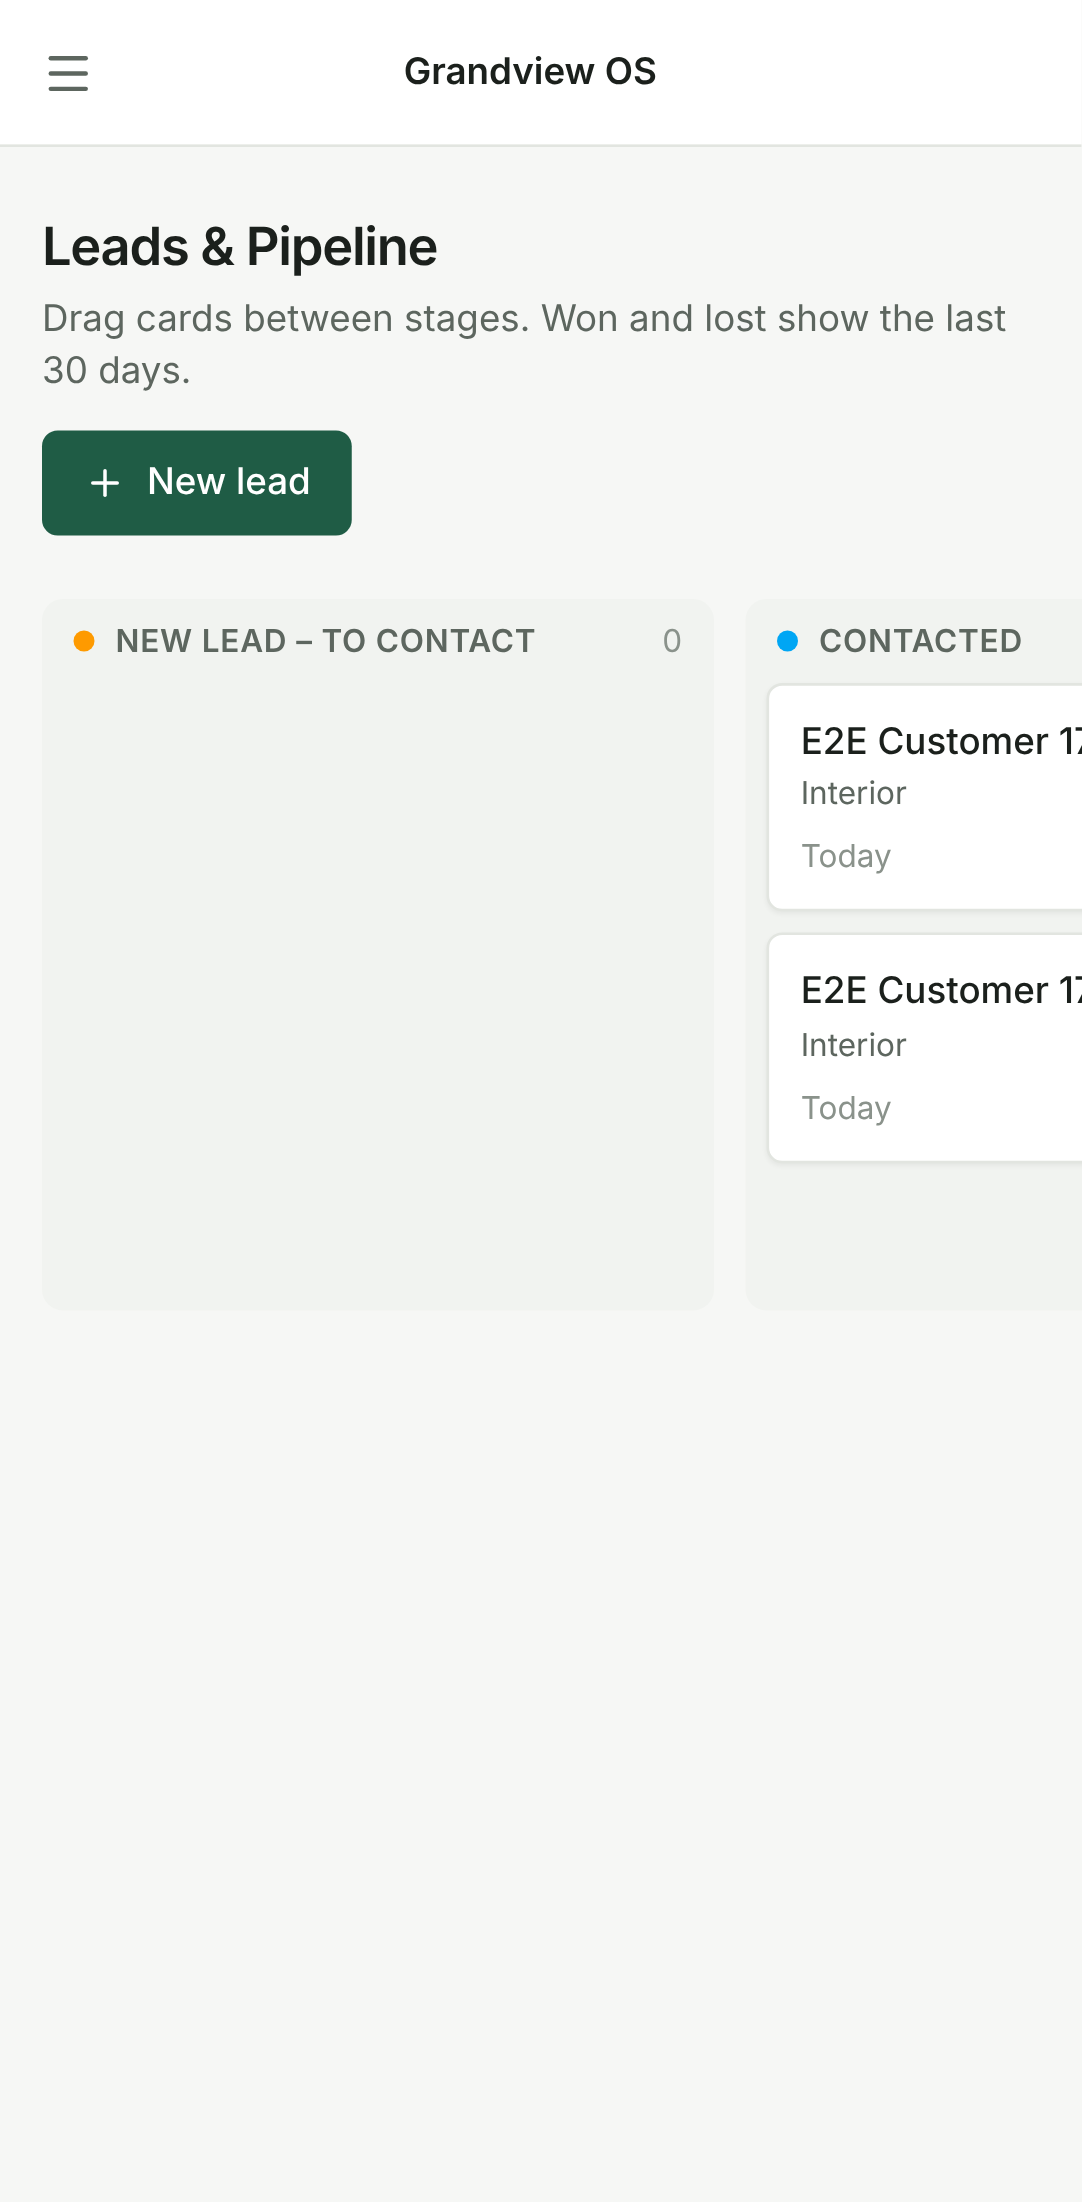
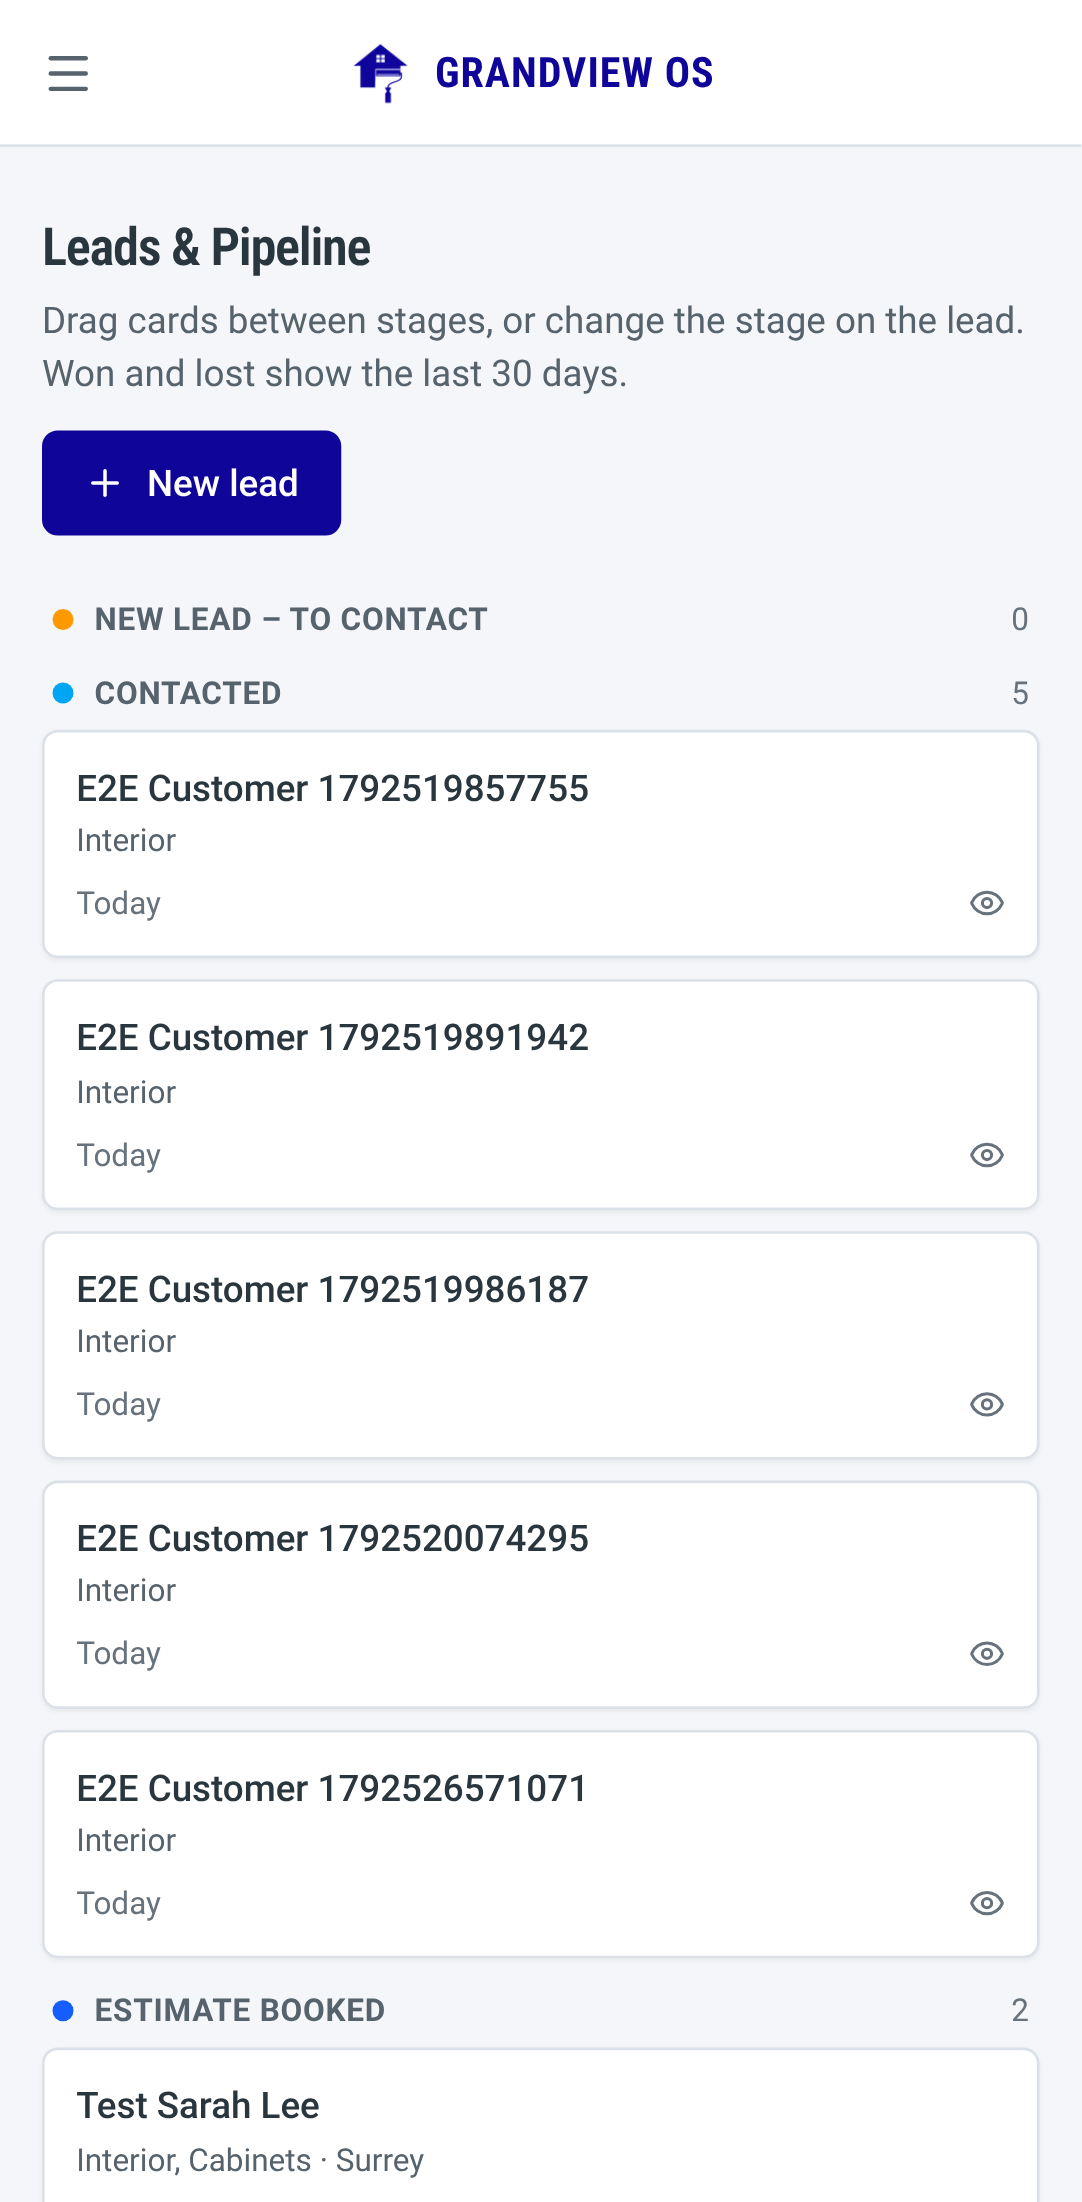
Retheme to Grandview Painting website branding
Replace the placeholder green with the website's Elementor global colours
(logo blue #100599, navy #103362, teal #009ABB, slate text #2A363E), use the
official logo and house/roller symbol, website fonts (Roboto, Roboto
Condensed via next/font), favicon and app icons. Derived tints checked for
WCAG AA contrast.

Claude-Session: https://claude.ai/code/session_01PRCtuHkzCiq5yPCEWquvEd

diff --git a/src/app/globals.css b/src/app/globals.css
@@ -1,34 +1,37 @@
 @import "tailwindcss";
 
 /*
- * Grandview OS design tokens. Restrained neutrals with a single deep-green
- * brand accent. Colours are referenced through these tokens only.
+ * Grandview OS design tokens, taken from grandviewpainting.ca (Elementor global
+ * colours and the logo): logo blue #100599, navy #103362, teal #009ABB, slate
+ * text #2A363E. Tints marked "derived" exist only where the site has no
+ * equivalent. Colours are referenced through these tokens only.
  */
 :root {
-  --bg: #f6f7f5;
+  --bg: #f4f6f9; /* derived */
   --surface: #ffffff;
-  --surface-2: #f1f3f0;
-  --border: #e2e5e0;
-  --border-strong: #cdd2ca;
-  --text: #1b201c;
-  --text-muted: #5d665f;
-  --text-subtle: #8a928b;
-  --brand: #1f5c45;
-  --brand-hover: #184a37;
-  --brand-soft: #e5f0ea;
+  --surface-2: #edf0f5; /* derived */
+  --border: #dce1e9; /* derived */
+  --border-strong: #c3cad6; /* derived */
+  --text: #2a363e;
+  --text-muted: #56626c; /* derived */
+  --text-subtle: #67727c; /* derived; use text-muted for small text on surface-2 */
+  --brand: #100599;
+  --brand-hover: #103362;
+  --brand-soft: #e9e8f8; /* derived */
   --brand-contrast: #ffffff;
   --danger: #b4232c;
-  --danger-soft: #fbe9ea;
-  --warning: #9a5b00;
-  --warning-soft: #fdf1dc;
-  --success: #1e7a46;
-  --success-soft: #e3f4ea;
-  --info: #1f5f9e;
-  --info-soft: #e5eef8;
-  --sidebar: #142019;
-  --sidebar-text: #c9d3cc;
-  --sidebar-active: #22372b;
-  --ring: #2f7d5f;
+  --danger-soft: #fbeaeb;
+  --warning: #8a5100;
+  --warning-soft: #fff4d6;
+  --success: #1b7340;
+  --success-soft: #e4f3e9;
+  --info: #00728c; /* darker teal so small text passes AA */
+  --info-soft: #e0f3f7;
+  --sidebar: #103362;
+  --sidebar-text: #c3cede; /* derived */
+  --sidebar-active: #2a5490; /* derived; #100599 would be invisible on navy */
+  --accent: #009abb;
+  --ring: #009abb;
 }
 
 @theme inline {
@@ -56,7 +59,9 @@
   --color-sidebar-text: var(--sidebar-text);
   --color-sidebar-active: var(--sidebar-active);
   --color-ring: var(--ring);
-  --font-sans: ui-sans-serif, system-ui, -apple-system, "Segoe UI", Roboto, "Helvetica Neue", Arial, sans-serif;
+  --color-accent: var(--accent);
+  --font-sans: var(--font-roboto), "Helvetica Neue", Helvetica, Arial, sans-serif;
+  --font-display: var(--font-roboto-condensed), "Arial Narrow", "Helvetica Neue", Arial, sans-serif;
   --font-mono: ui-monospace, SFMono-Regular, Menlo, Consolas, monospace;
 }
 
@@ -86,4 +91,10 @@ input[type="number"]::-webkit-outer-spin-button {
 }
 input[type="number"] {
   -moz-appearance: textfield;
+}
+
+@layer base {
+  h1 {
+    font-family: var(--font-display);
+  }
 }

diff --git a/src/components/sidebar.tsx b/src/components/sidebar.tsx
@@ -1,4 +1,5 @@
 "use client";
+import Image from "next/image";
 import Link from "next/link";
 import { usePathname } from "next/navigation";
 import { useState } from "react";
@@ -38,7 +39,7 @@ export function Sidebar({ items, userName, roleLabel }: { items: NavItem[]; user
             aria-current={active ? "page" : undefined}
             className={cn(
               "flex items-center gap-3 rounded-md px-3 py-2 text-sm font-medium transition-colors",
-              active ? "bg-sidebar-active text-white" : "text-sidebar-text hover:bg-sidebar-active/60 hover:text-white",
+              active ? "bg-sidebar-active text-white shadow-[inset_3px_0_0_var(--accent)]" : "text-sidebar-text hover:bg-sidebar-active/60 hover:text-white",
             )}
           >
             <Icon className="size-4 shrink-0" aria-hidden />
@@ -69,9 +70,9 @@ export function Sidebar({ items, userName, roleLabel }: { items: NavItem[]; user
   );
 
   const brand = (
-    <div className="flex h-14 items-center gap-2 px-5">
-      <span className="grid size-7 place-items-center rounded-md bg-brand text-xs font-bold text-white">G</span>
-      <span className="text-sm font-semibold tracking-tight text-white">Grandview OS</span>
+    <div className="flex h-14 items-center gap-2.5 px-4">
+      <Image src="/brand/symbol-white.png" alt="Grandview Painting" width={32} height={32} priority />
+      <span className="font-[family-name:var(--font-display)] text-base font-bold uppercase tracking-wide text-white">Grandview <span className="text-accent">OS</span></span>
     </div>
   );
 
@@ -87,7 +88,10 @@ export function Sidebar({ items, userName, roleLabel }: { items: NavItem[]; user
         <button type="button" onClick={() => setOpen(true)} className="-ml-2 rounded-md p-2 text-muted" aria-label="Open menu">
           <Menu className="size-5" />
         </button>
-        <span className="text-sm font-semibold">Grandview OS</span>
+        <span className="flex items-center gap-2">
+          <Image src="/brand/symbol-blue.png" alt="Grandview Painting" width={26} height={26} priority />
+          <span className="font-[family-name:var(--font-display)] text-base font-bold uppercase tracking-wide text-brand">Grandview OS</span>
+        </span>
         <span className="w-9" />
       </header>
 

diff --git a/src/app/layout.tsx b/src/app/layout.tsx
@@ -1,5 +1,10 @@
 import type { Metadata, Viewport } from "next";
+import { Roboto, Roboto_Condensed } from "next/font/google";
 import "./globals.css";
+
+// Same families as grandviewpainting.ca, self-hosted at build time.
+const roboto = Roboto({ subsets: ["latin"], weight: ["400", "500", "700"], variable: "--font-roboto", display: "swap" });
+const robotoCondensed = Roboto_Condensed({ subsets: ["latin"], weight: ["600", "700"], variable: "--font-roboto-condensed", display: "swap" });
 
 export const metadata: Metadata = {
   title: { default: "Grandview OS", template: "%s · Grandview OS" },
@@ -8,14 +13,14 @@ export const metadata: Metadata = {
 };
 
 export const viewport: Viewport = {
-  themeColor: "#1f5c45",
+  themeColor: "#100599",
   width: "device-width",
   initialScale: 1,
 };
 
 export default function RootLayout({ children }: { children: React.ReactNode }) {
   return (
-    <html lang="en-CA" className="h-full antialiased">
+    <html lang="en-CA" className={`${roboto.variable} ${robotoCondensed.variable} h-full antialiased`}>
       <body className="min-h-full">{children}</body>
     </html>
   );

diff --git a/src/app/login/auth-shell.tsx b/src/app/login/auth-shell.tsx
@@ -1,10 +1,12 @@
+import Image from "next/image";
+
 export function AuthShell({ title, subtitle, children }: { title: string; subtitle?: string; children: React.ReactNode }) {
   return (
     <div className="flex min-h-screen items-center justify-center bg-bg px-4 py-12">
       <div className="w-full max-w-sm">
-        <div className="mb-8 flex items-center justify-center gap-2">
-          <span className="grid size-9 place-items-center rounded-lg bg-brand text-sm font-bold text-white">G</span>
-          <span className="text-lg font-semibold tracking-tight">Grandview OS</span>
+        <div className="mb-8 flex flex-col items-center gap-2">
+          <Image src="/brand/logo-blue-tagline.png" alt="Grandview Painting – Quality focused. Integrity driven." width={260} height={130} priority />
+          <span className="font-[family-name:var(--font-display)] text-sm font-semibold uppercase tracking-[0.2em] text-muted">Grandview OS</span>
         </div>
         <div className="rounded-xl border border-border bg-surface p-6 shadow-sm">
           <h1 className="text-lg font-semibold">{title}</h1>

diff --git a/src/app/(app)/estimates/[id]/editor.tsx b/src/app/(app)/estimates/[id]/editor.tsx
@@ -644,7 +644,7 @@ export function EstimateEditor({
       {toast && (
         <div className="fixed bottom-4 left-1/2 z-50 flex -translate-x-1/2 items-center gap-3 rounded-lg bg-sidebar px-4 py-2.5 text-sm text-white shadow-lg" role="status">
           {toast}
-          {undoStack.length > 0 && <button type="button" className="font-semibold text-emerald-300 hover:underline" onClick={undo}>Undo</button>}
+          {undoStack.length > 0 && <button type="button" className="font-semibold text-accent hover:underline" onClick={undo}>Undo</button>}
         </div>
       )}
     </div>

diff --git a/src/proxy.ts b/src/proxy.ts
@@ -12,5 +12,5 @@ export function proxy(request: NextRequest) {
 }
 
 export const config = {
-  matcher: ["/((?!api|login|share|_next/static|_next/image|favicon.ico|icon|manifest).*)"],
+  matcher: ["/((?!api|login|share|_next/static|_next/image|favicon.ico|icon|apple-icon|brand|manifest).*)"],
 };

diff --git a/docs/DEVELOPMENT_PLAN.md b/docs/DEVELOPMENT_PLAN.md
@@ -15,6 +15,7 @@ Status key: ✅ done and tested · 🟡 partly done · ⬜ not started
 | Markate | Replace | Its scheduling, invoicing and field functions move into Grandview OS |
 | monday.com | Replace for CRM and job scheduling | Current boards analysed (see below) and their workflows mapped into the pipeline and project stages |
 | Default pricing | Billing-rate × hours + marked-up materials (PaintScout style), with true costs tracked separately | Matches how rates are built today, while still showing real margin |
+| Branding | Website palette (logo blue #100599, navy #103362, teal #009ABB), official logo, Roboto/Roboto Condensed (same as the website) | Not a rebrand: the app should look like Grandview's website. Source: Elementor global colours on grandviewpainting.ca |
 | Customer messages | Human-initiated only (button + preview) | Brief requires human approval for customer communication |
 
 ## What we learned from the current setup (Oct 2026)
